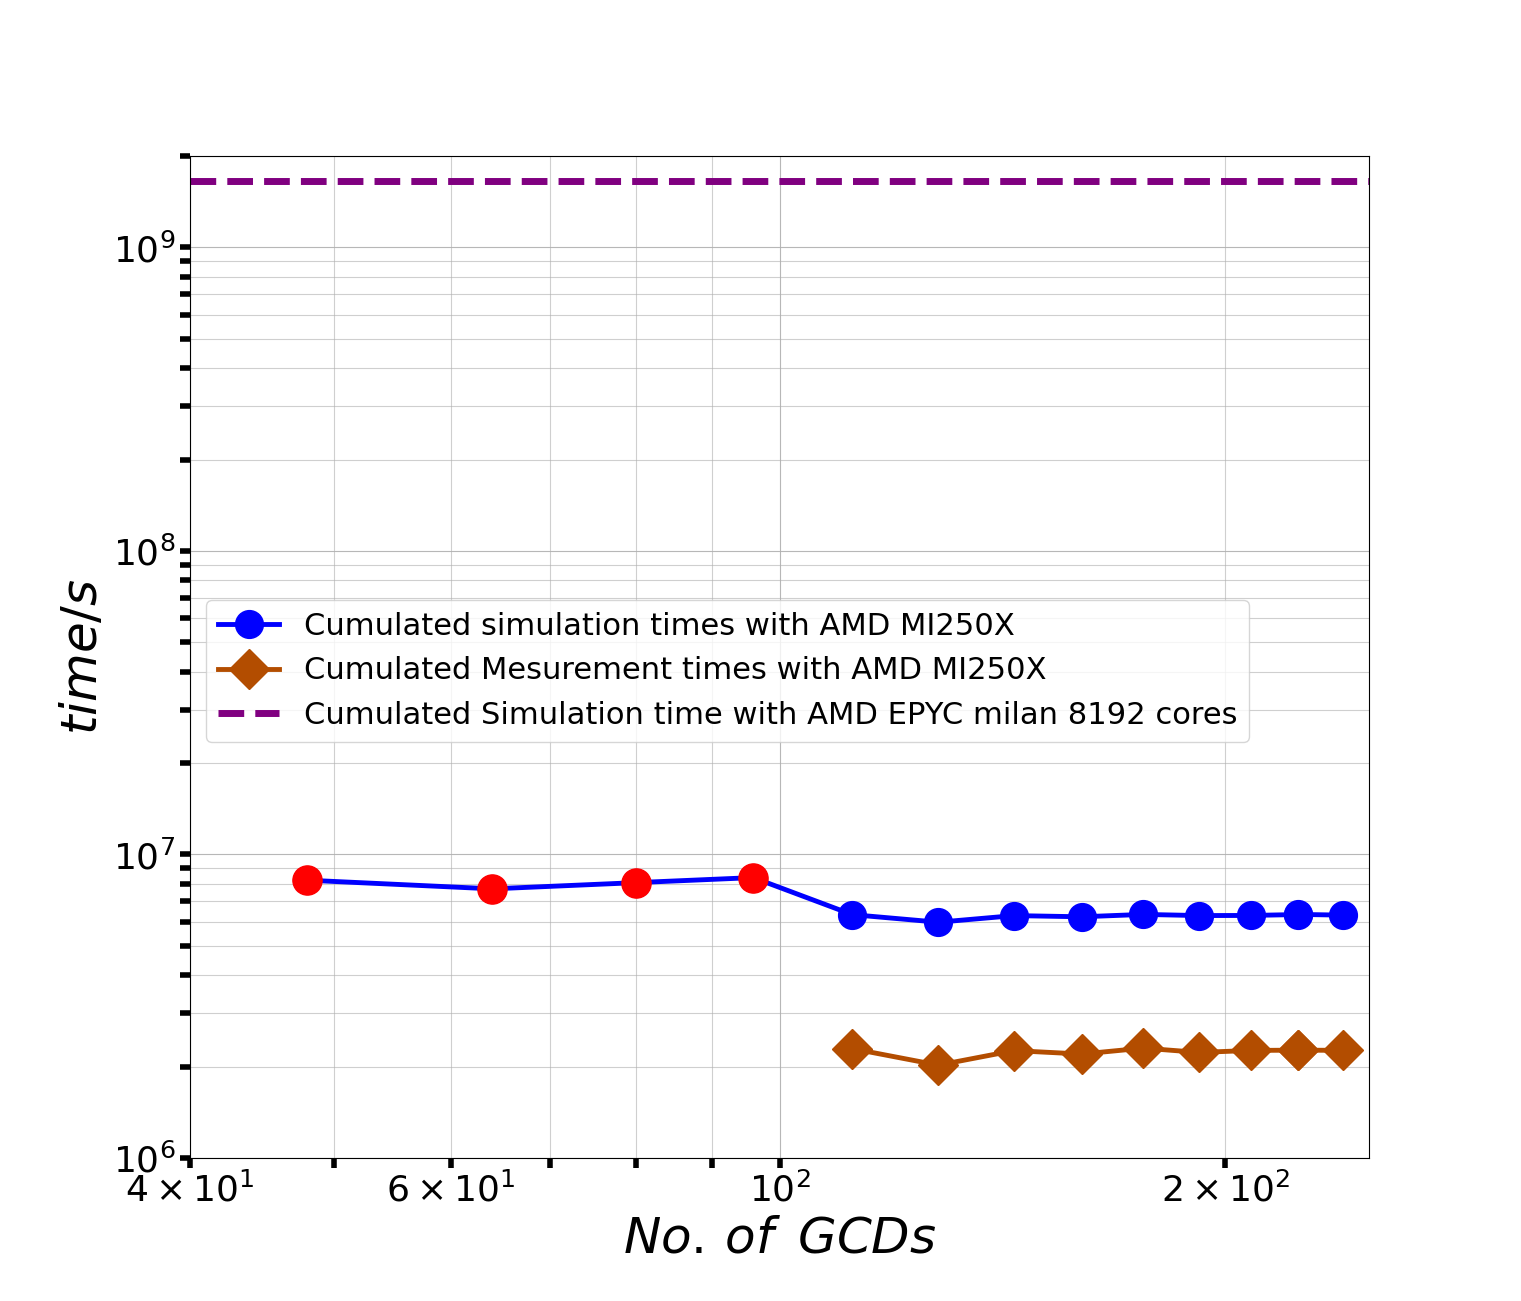
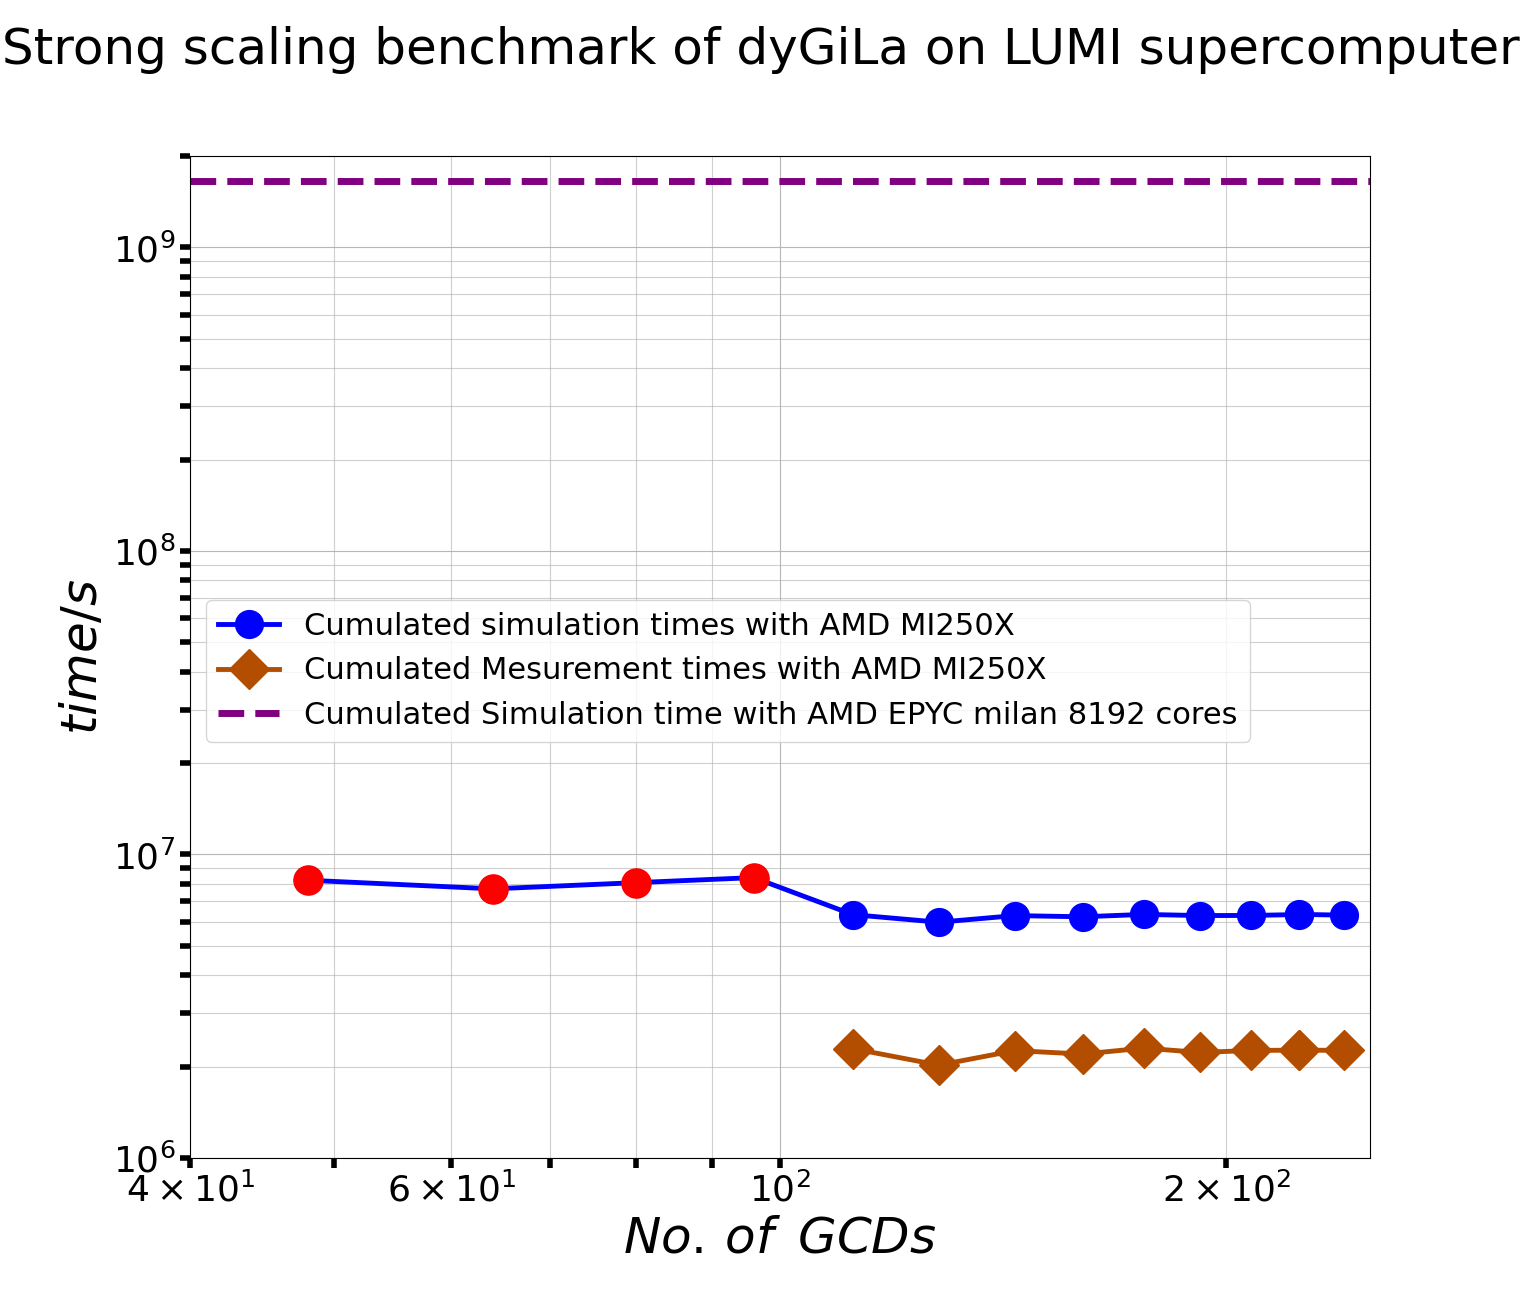
eidt benchmark.md

diff --git a/benchmark.md b/benchmark.md
@@ -26,4 +26,10 @@ As to be the LUMI maintaining team suggested PE, it does give a perfect strong s
 
 In both plots, x-axis stands for the number of Graphics Compute Dies (GCDs) in a run.
 AMD MI250x has two GCDs per card, then one LUMI-G node has eight GCDs.
+The blue dots and brown diamond are simulation time data and measurement data respectively. 
+They are raw data out of simulations.
+Because the numerical system, which was used for these benchmark runs, are very large, one could expect that the jobs will not 
+be finished in a give time limit such as a day if the hardware resources provided to these runs are not enough.
+These runs are represented with red dots, of which the simulation time were calculated based on how many simulation have been done in log files.
+Besides this un-perfect, one still can conclude that dyGiLa does has perfect strong scaling feature by looking these plots.
 
